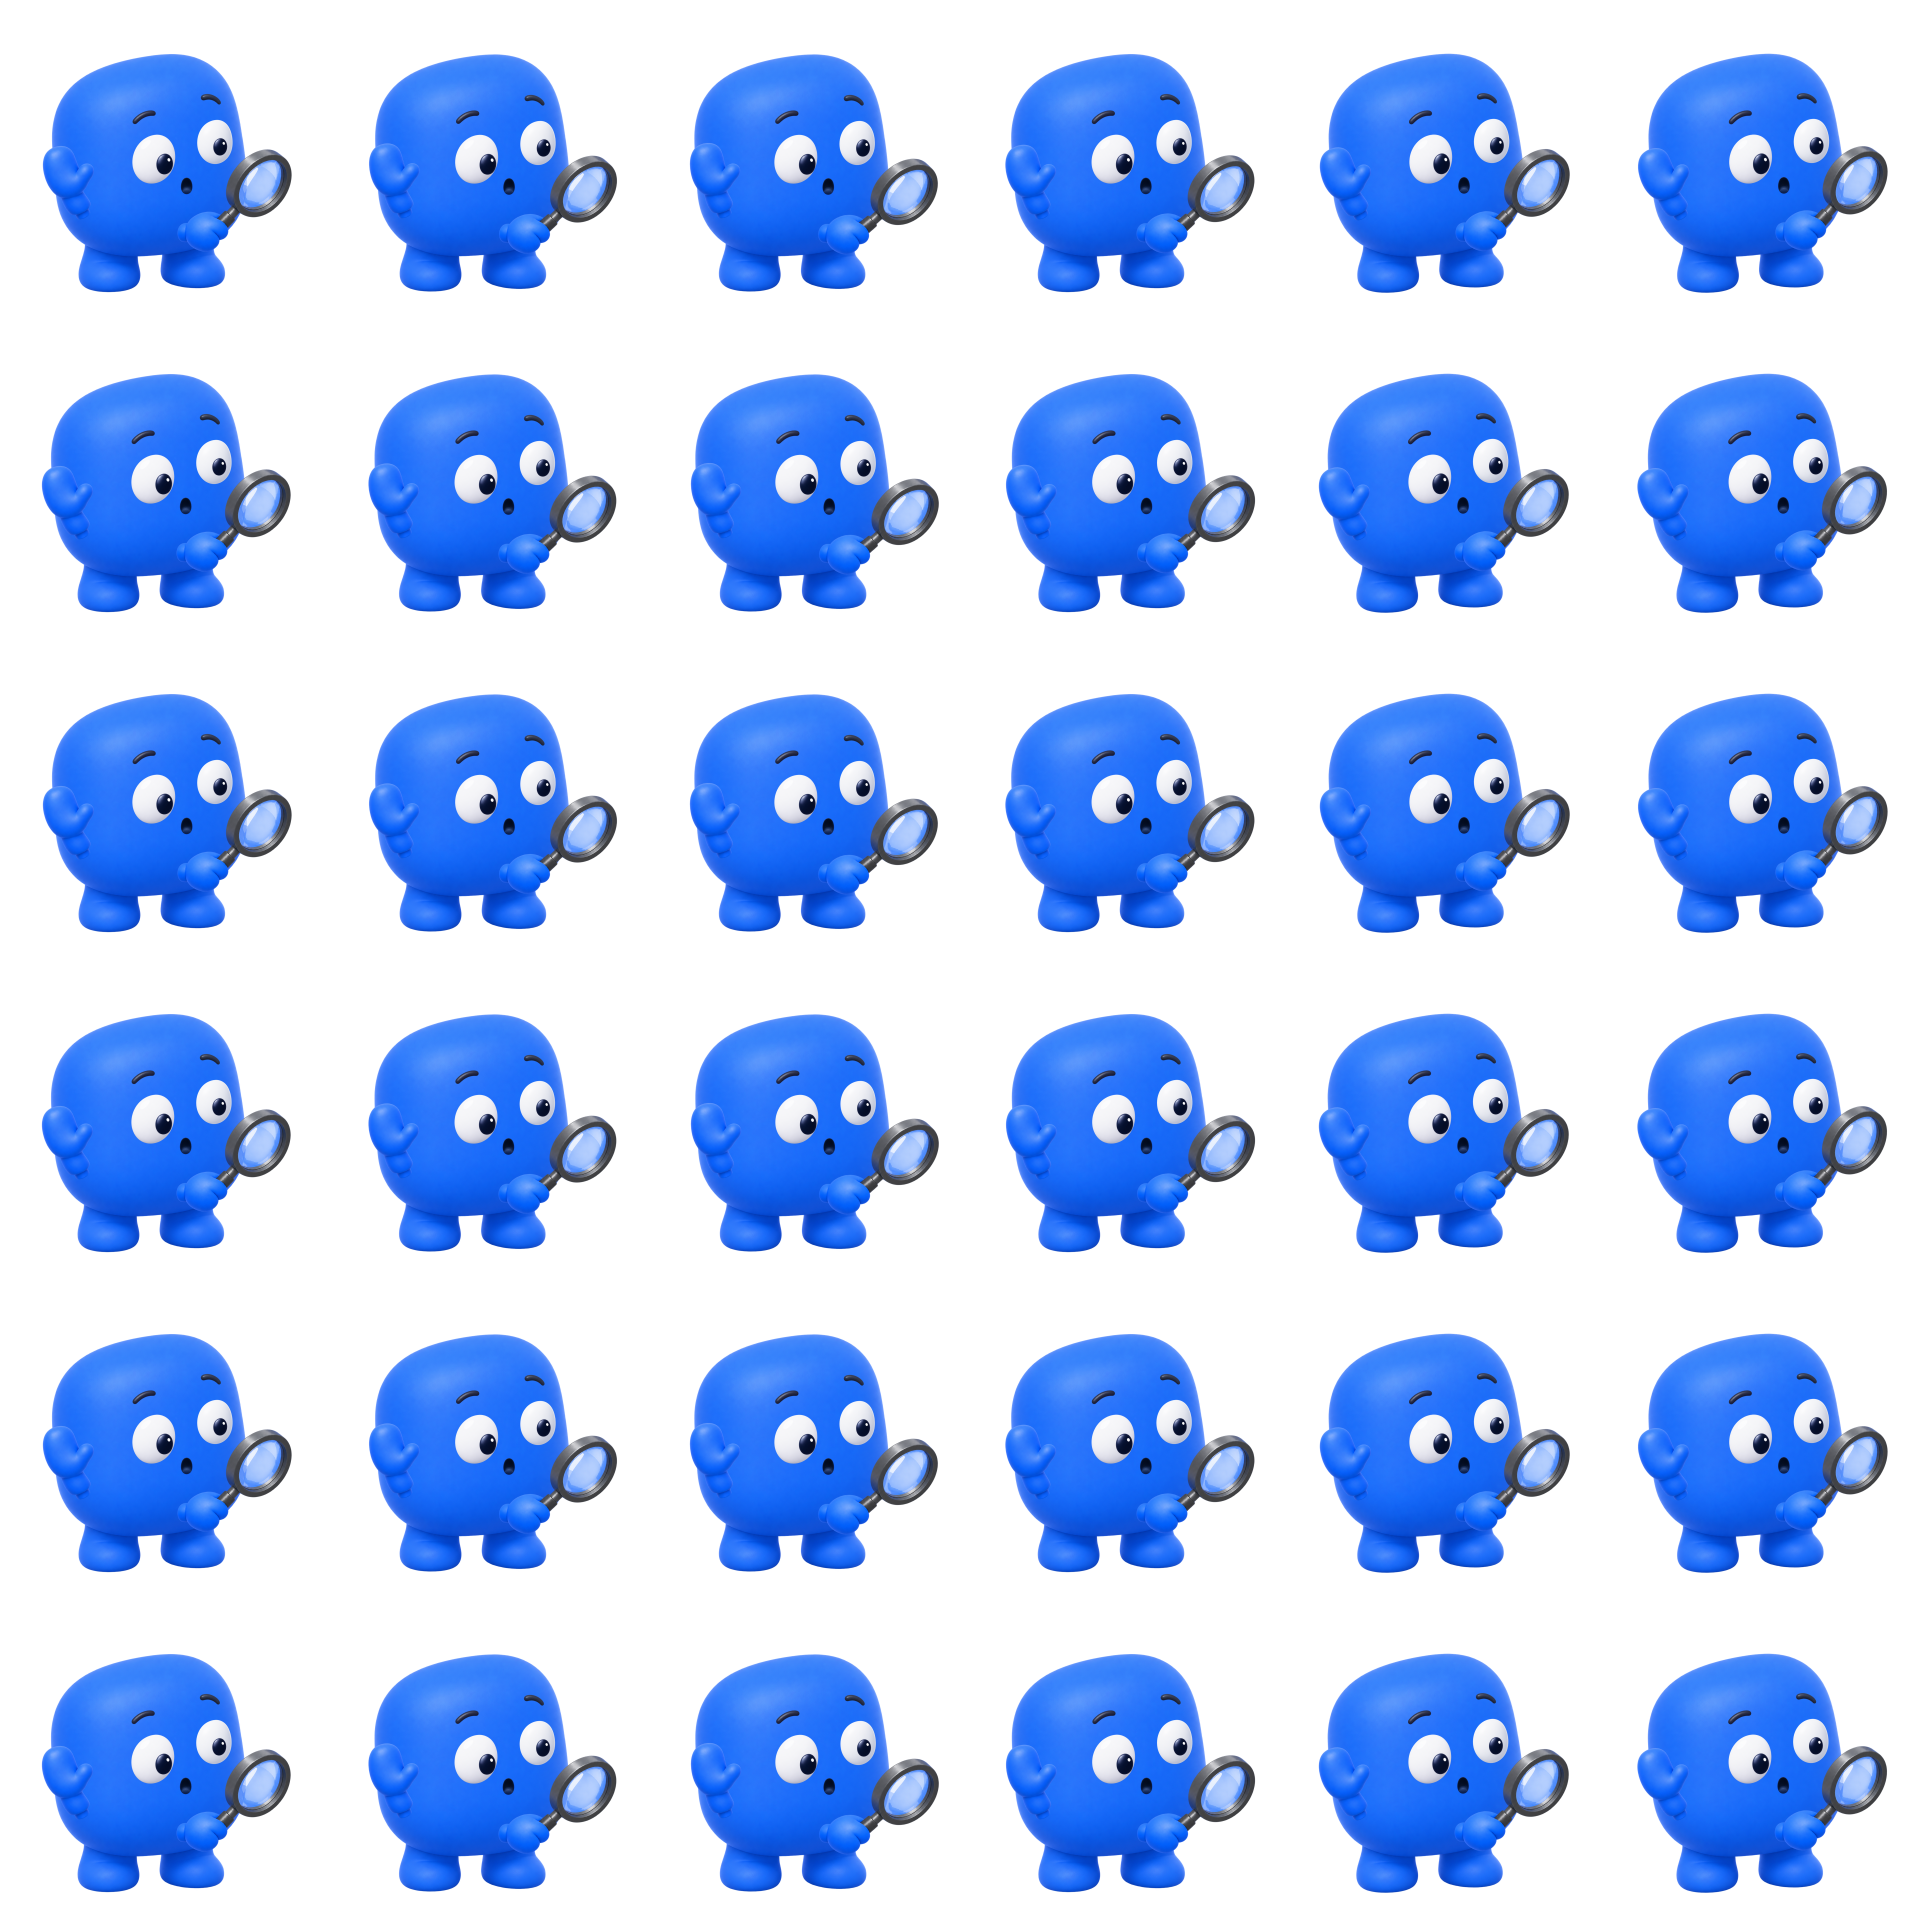
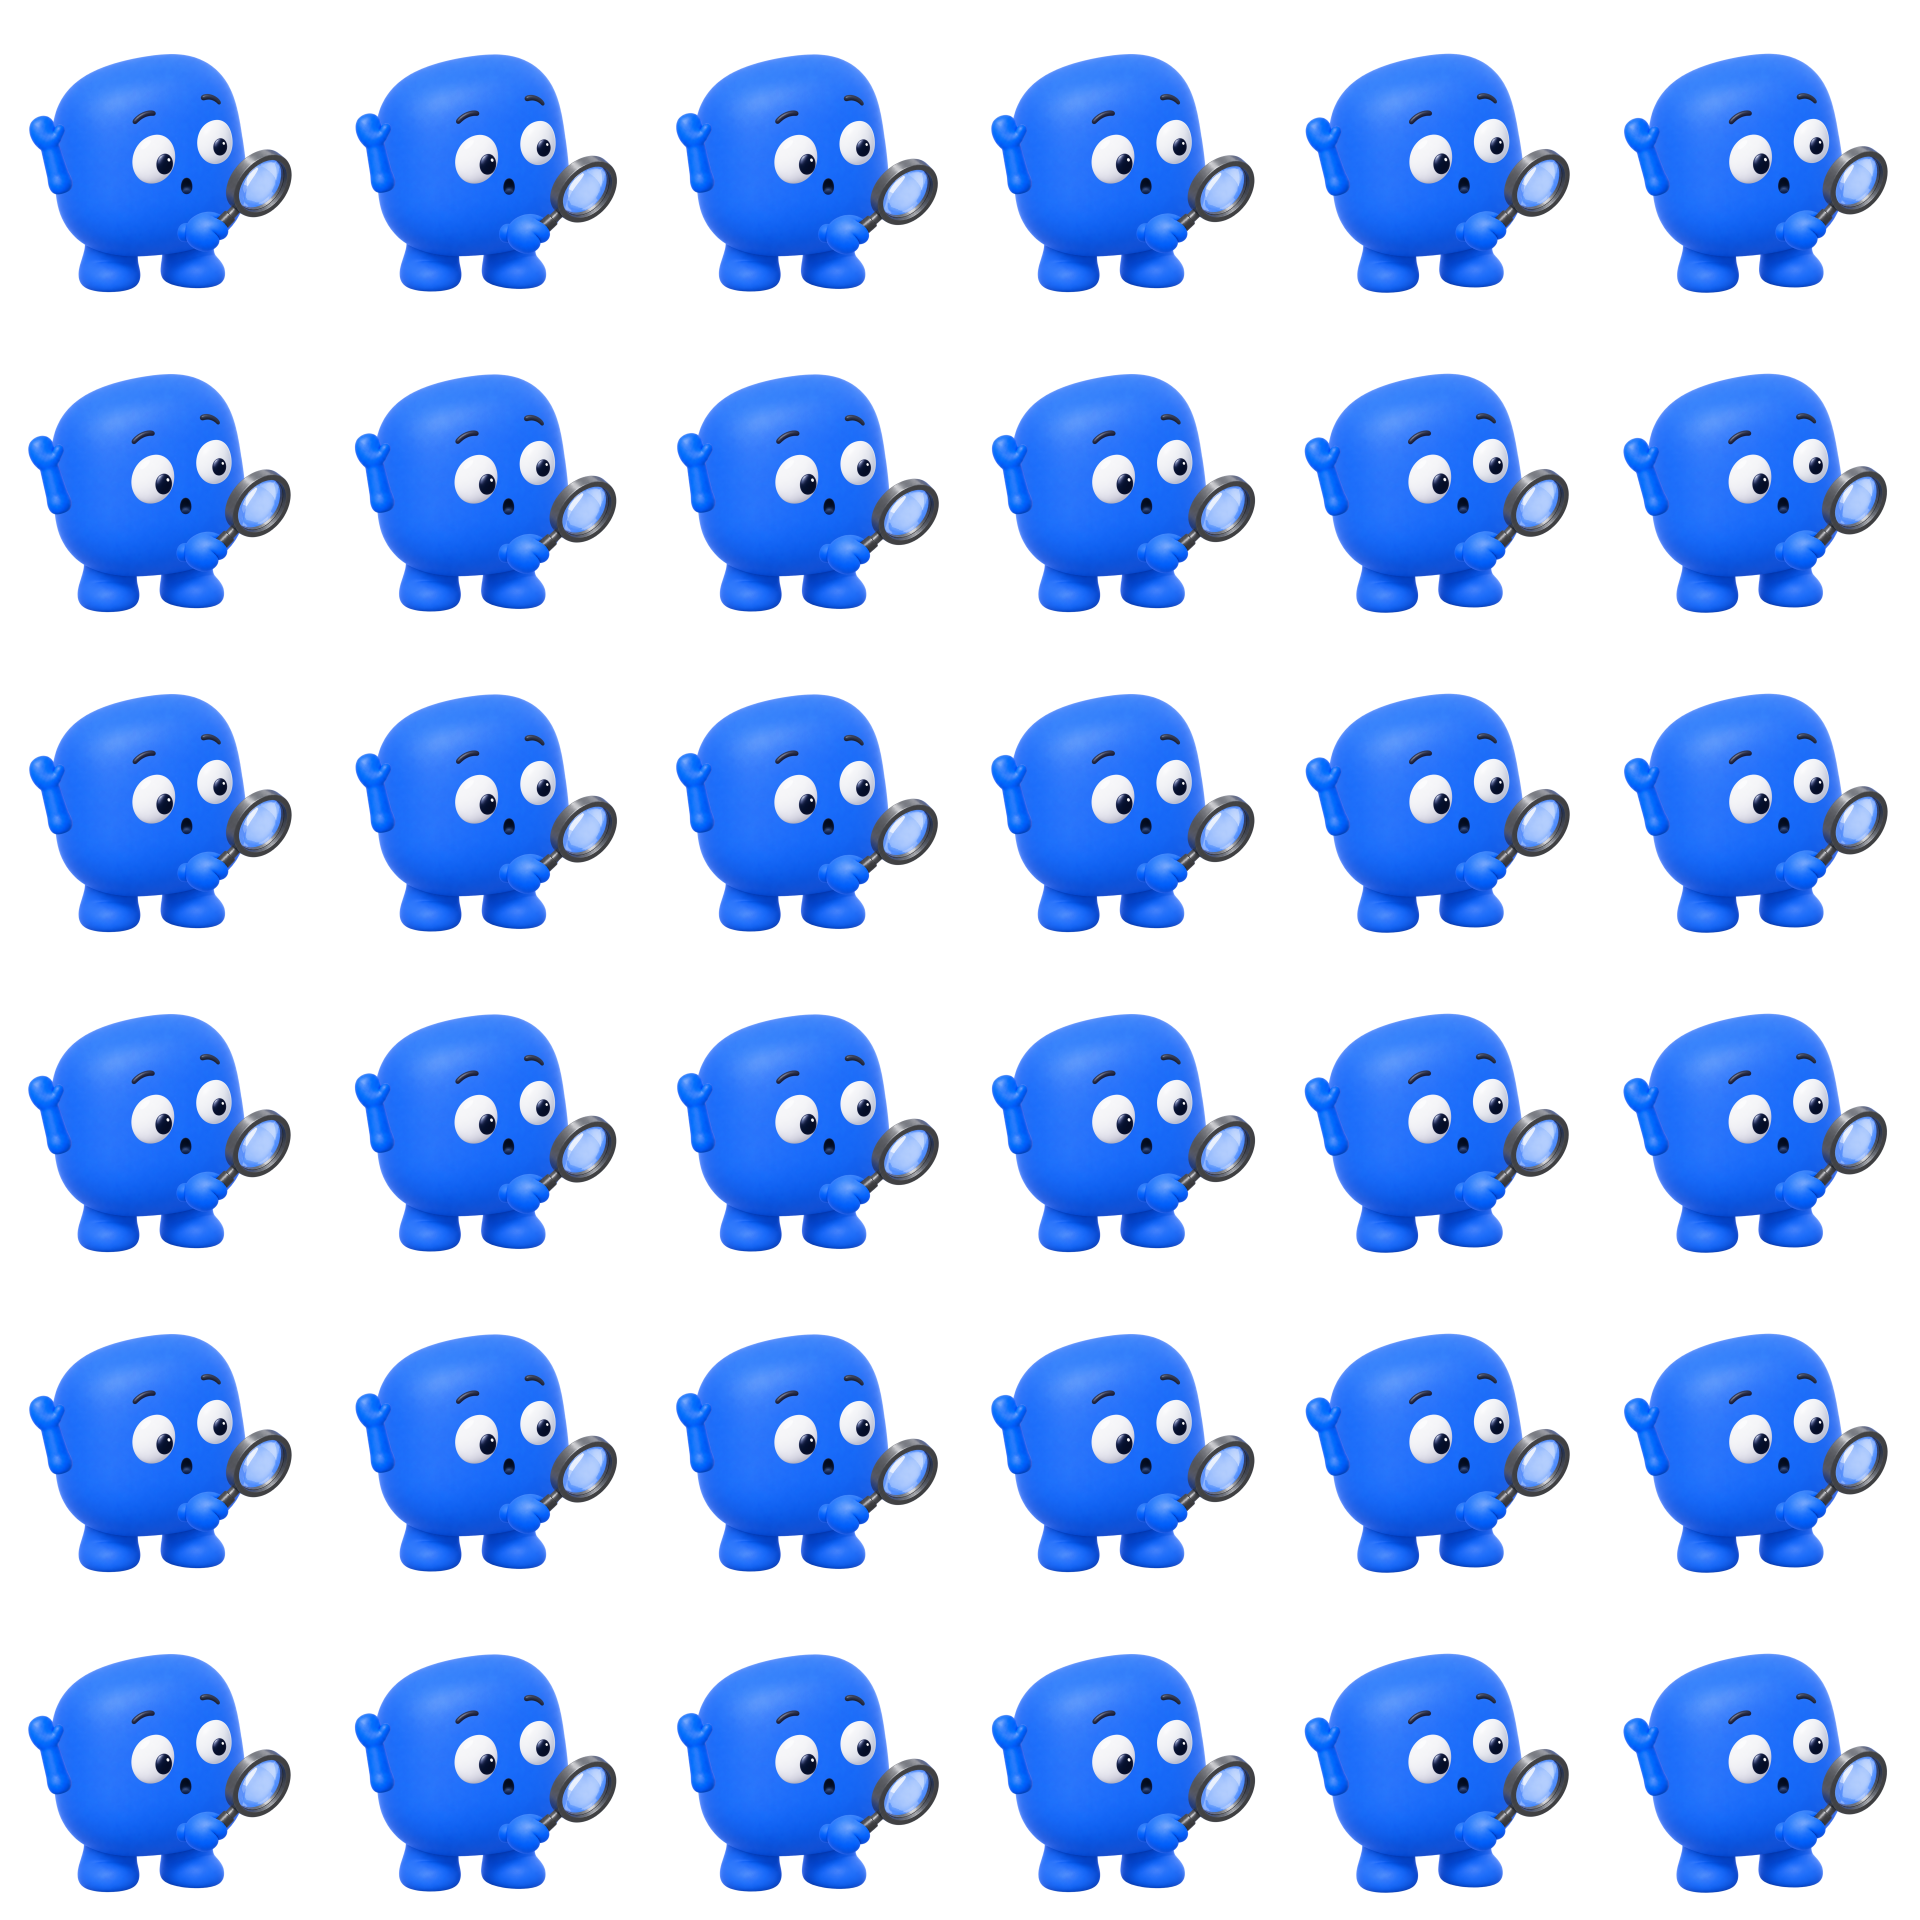
Give the mascot's arms a natural rest in concern, worried, alarmed and relieved
On the at-risk screen the concern fist's short wrist stub stood out of the
body edge like a cut-off arm, and its tap slid it sideways across that edge.
Concern and worried now use scan's full resting arm, twitching about the
shoulder so it stays attached; in worried this also stops the two mittens
crowding into one blob.

Alarmed and relieved use a new straight arm that turns about the shoulder.
In relieved the same piece swings down across his front and ends hanging at
his side, where the old raised hand still read as a wave. It swings inward
because the arm is longer than the room to the left of the body. The
generated hip-clutch hand read as a thumbs-up and is not used.

Claude-Session: https://claude.ai/code/session_01GJQeD85b73BRmjdN9KVYno

diff --git a/scripts/mascot_rig/states.py b/scripts/mascot_rig/states.py
@@ -63,6 +63,12 @@ HAND_LEFT_RELAXED = {"name": "hand-left", "file": "scan/hand-left-relaxed.png", 
 HAND_RIGHT_RELAXED = {"name": "hand-right", "file": "shared/hand-right-relaxed.png", "width": 136,
                       "pivot_src": [440, 483], "anchor": [1000, 585]}
 
+# One straight arm that turns about the shoulder: raised in alarm, and in
+# `relieved` the same piece comes down to hang at his side. The kit draws it at
+# the scale of canonical-body.png, 780 px of torso to our 671.
+ARM_SWING = {"name": "arm", "file": "alarmed/arm-left-swing.png", "width": 143 * 671 / 780,
+             "pivot_src": [628, 852], "anchor": [403, 543], "angle": -15}
+
 FACE_LAYERS = {"eye-left", "eye-right", "pupil-left", "pupil-right", *LID_NAMES}
 
 
@@ -97,8 +103,9 @@ SPECS = {
         *EYES, *pupils(look=(-4, 0)), *LIDS,
         *brows("shared/brow-worried-left.png", "shared/brow-worried-right.png", 76, 70, 4),
         mouth("concern/mouth-frown.png", 78, dy=6),
-        {"name": "hand-fist", "file": "shared/hand-fist-chest-left.png", "width": 175,
-         "pivot_src": [488, 634], "anchor": [420, 650]},
+        # The chest fist's short wrist stub stood out of the body edge like a cut-off
+        # arm; the whole resting arm from the shoulder reads as a hand, not a stump.
+        HAND_LEFT_RELAXED,
         {"name": "magnifier", "file": "shared/magnifier-raised.png", "width": 235,
          "pivot_src": [520, 830], "anchor": [1005, 600]},
     ),
@@ -106,8 +113,9 @@ SPECS = {
         *EYES, *pupils("shared/pupil-small.png", 58, 48), *LIDS,
         *brows("shared/brow-worried-left.png", "shared/brow-worried-right.png", 76, 70, 4),
         mouth("worried/mouth-worried-wavy.png", 82, dy=6),
-        {"name": "hand-fist", "file": "shared/hand-fist-chest-left.png", "width": 175,
-         "pivot_src": [488, 634], "anchor": [420, 650]},
+        # The chest fist's short wrist stub stood out of the body edge like a cut-off
+        # arm; the whole resting arm from the shoulder reads as a hand, not a stump.
+        HAND_LEFT_RELAXED,
         {"name": "magnifier", "file": "scan/magnifier-front.png", "width": 555, "centre": [913, 573],
          "pivot": [749, 684]},
     ),
@@ -115,8 +123,7 @@ SPECS = {
         *EYES, *pupils("shared/pupil-small.png", 58, 48), *LIDS,
         *brows("alarmed/brow-alarmed-left.png", "alarmed/brow-alarmed-right.png", 80, 70, 22),
         mouth("alarmed/mouth-alarmed-open.png", 40, dy=12),
-        {"name": "hand-up", "file": "alarmed/hand-up-alarmed.png", "width": 175,
-         "pivot_src": [700, 862], "anchor": [470, 640]},
+        ARM_SWING,
         {"name": "magnifier", "file": "alarmed/magnifier-front-tilted.png", "width": 400,
          "pivot_src": [345, 830], "anchor": [820, 700]},
     ),
@@ -143,8 +150,7 @@ SPECS["relieved"] = spec(
     mouth("alarmed/mouth-alarmed-open.png", 40, "mouth-alarmed", 12),
     mouth("relieved/mouth-relieved-exhale.png", 50, "mouth-exhale", 10),
     mouth("scan/mouth-smile-small.png", 82, "mouth-smile"),
-    {"name": "hand-up", "file": "alarmed/hand-up-alarmed.png", "width": 175,
-     "pivot_src": [700, 862], "anchor": [470, 640]},
+    ARM_SWING,
     {"name": "magnifier", "file": "alarmed/magnifier-front-tilted.png", "width": 400,
      "pivot_src": [345, 830], "anchor": [820, 700]},
 )

diff --git a/scripts/mascot_rig/build.py b/scripts/mascot_rig/build.py
@@ -145,23 +145,25 @@ def success(rig, frame):
 
 
 def concern(rig, frame):
-    p = Pose(rig, frame, BASE | {"mouth", "hand-fist", "magnifier"})
+    p = Pose(rig, frame, BASE | {"mouth", "hand-left", "magnifier"})
     t = p.t
     p.move(p.face(), dx=2.5 * wave(t, 1, 0.5))
     p.move(["pupil-left", "pupil-right"], dx=7.0 * glance(t))
-    p.move("hand-fist", dx=7.0 * (bump(t, 0.22, 0.07) + bump(t, 0.72, 0.07)))
+    # Two nervous twitches of the resting arm, turned about the shoulder so it
+    # stays attached; a slow sway underneath keeps it from ever freezing.
+    p.move("hand-left", deg=2.5 * wave(t, 1, -0.9) - 6.0 * (bump(t, 0.22, 0.07) + bump(t, 0.72, 0.07)))
     p.move("magnifier", deg=5.0 * wave(t, 1, -0.8))
     p.blink(20)
     return p.done(deg=1.5 * wave(t, 1))
 
 
 def worried(rig, frame):
-    p = Pose(rig, frame, BASE | {"mouth", "hand-fist", "magnifier"})
+    p = Pose(rig, frame, BASE | {"mouth", "hand-left", "magnifier"})
     t = p.t
     p.move(p.face(), dx=3.0 * wave(t, 1, 0.5))
     p.move(["pupil-left", "pupil-right"], dx=6.0 * glance(t, 2, 2.5))
     taps = sum(bump(t, c, 0.06) for c in (0.15, 0.48, 0.81))
-    p.move("hand-fist", dx=6.0 * taps)
+    p.move("hand-left", deg=3.0 * wave(t, 1, -0.9) - 5.0 * taps)
     p.move("magnifier", 6.0 * wave(t, 1, -0.6), 0.0, 3.0 * wave(t, 1, -0.6))
     p.blink(26)
     return p.done(dx=2.5 * wave(t, 4), deg=2.0 * wave(t, 1))
@@ -172,10 +174,10 @@ def tremble(t: float) -> tuple[float, float]:
 
 
 def alarmed(rig, frame):
-    p = Pose(rig, frame, BASE | {"mouth", "hand-up", "magnifier"})
+    p = Pose(rig, frame, BASE | {"mouth", "arm", "magnifier"})
     t = p.t
     p.move(["pupil-left", "pupil-right"], dx=1.5 * wave(t, 6, -0.4))
-    p.move("hand-up", deg=4.0 * wave(t, 6, -0.5))
+    p.move("arm", deg=3.0 * wave(t, 6, -0.5))
     p.move("magnifier", deg=3.0 * wave(t, 6, -0.7))
     dx, deg = tremble(t)
     return p.done(dx=dx, deg=deg)
@@ -184,7 +186,7 @@ def alarmed(rig, frame):
 def relieved(rig, frame):
     """One-shot: starts on alarmed frame 0, ends calm and holds frame 35."""
     calm = frame >= 11  # the expression swaps while his eyes are shut (10-12)
-    visible = {"body", "eye-left", "eye-right", "hand-up", "magnifier"}
+    visible = {"body", "eye-left", "eye-right", "arm", "magnifier"}
     if calm:
         visible |= {"brow-left", "brow-right", "pupil-left-calm", "pupil-right-calm",
                     "mouth-exhale" if frame < 24 else "mouth-smile"}
@@ -201,7 +203,10 @@ def relieved(rig, frame):
     # Hand and magnifier come down together, easing in and out, with a small
     # settle past the rest pose at the end.
     down = ease((frame - 12) / 16) + 0.04 * math.sin(math.pi * ease((frame - 26) / 9))
-    p.move("hand-up", dx=-22.0 * down, dy=70.0 * down, deg=-24.0 * down)
+    # The raised arm swings down across his front to hang at his side, a "phew"
+    # past the cheek. Outward would leave the frame: the arm is longer than the
+    # room left of the body.
+    p.move("arm", deg=175.0 * down)
     p.move("magnifier", dx=-6.0 * down, dy=55.0 * down, deg=22.0 * down)
     # The exhale: a slow lean forward and back.
     lean = 2.0 * math.sin(math.pi * ease((frame - 10) / 20))

diff --git a/assets/mascot/3d/README.md b/assets/mascot/3d/README.md
@@ -39,6 +39,17 @@ implement them no longer write production atlases.
   where scan puts them. Each part gets one uniform scale, chosen by eye
   against the body; hands are placed by their wrist or shoulder stub.
 
+Two later fixes. `rig/alarmed/arm-left-swing.png` (a straight arm drawn at
+the scale of `canonical-body.png`, so it is scaled by exactly 671/780) replaces
+the raised hand in `alarmed` and `relieved`: it turns about the shoulder, so in
+`relieved` the same piece swings down across his front and ends hanging at his
+side, where the old hand still read as a wave. It swings inward because the arm
+is longer than the room to the left of the body. `concern` and `worried` use
+scan's full resting arm instead of the chest fist, whose short wrist stub stood
+out of the body edge like a cut-off arm and crowded the magnifier hand. A
+hip-clutch hand was generated for `worried` but read as a thumbs-up, so it is
+not used.
+
 Each layer is scaled once, uniformly. A frame can only translate a layer,
 turn it about its pivot, or swap it for another whole part (a mouth shape on
 a talking beat, an expression while the eyes are shut). The builder refuses
